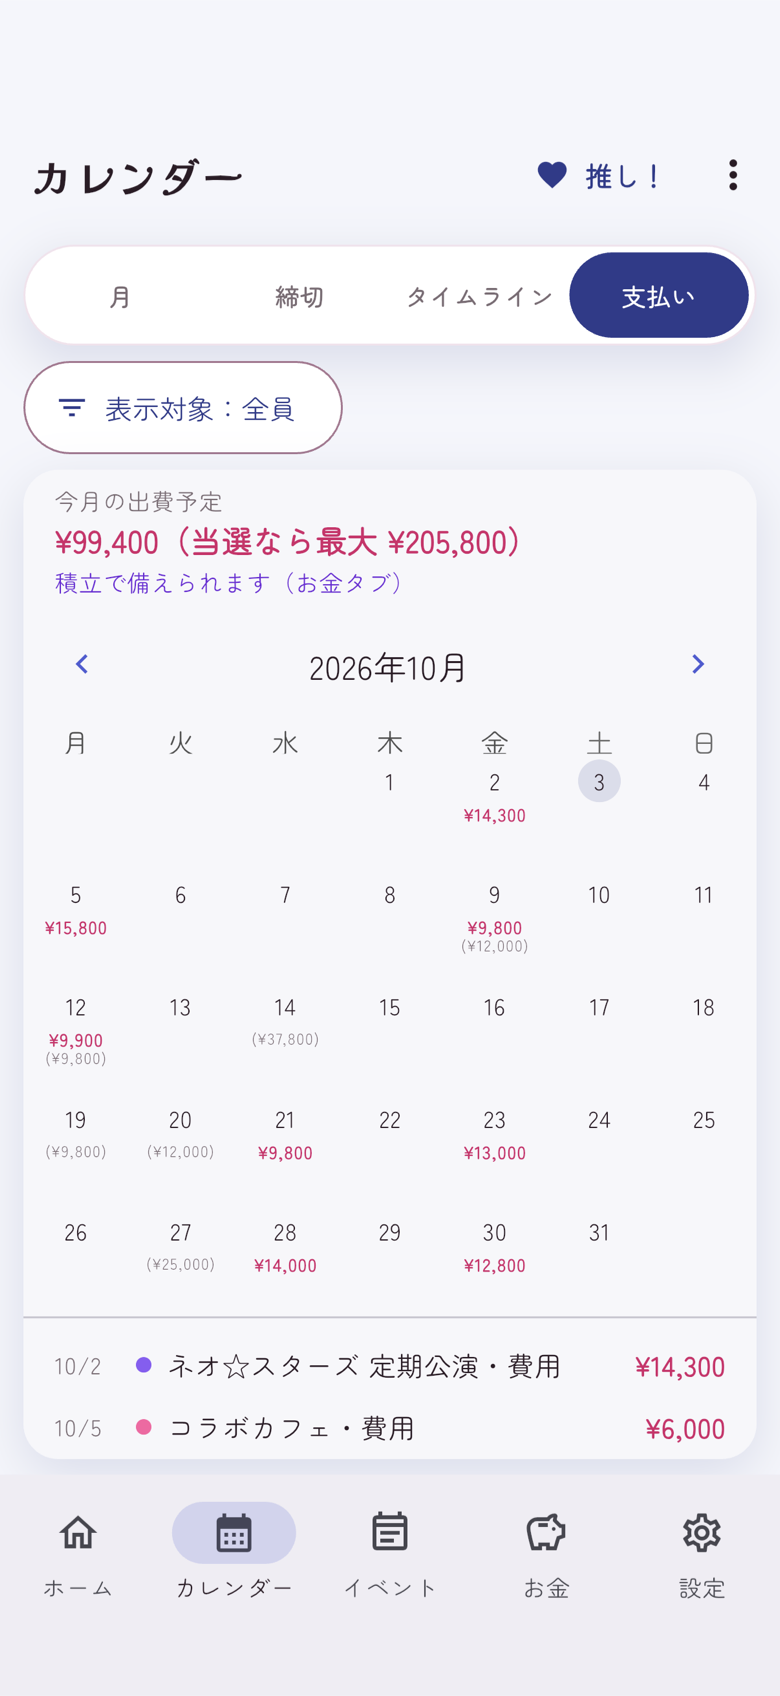
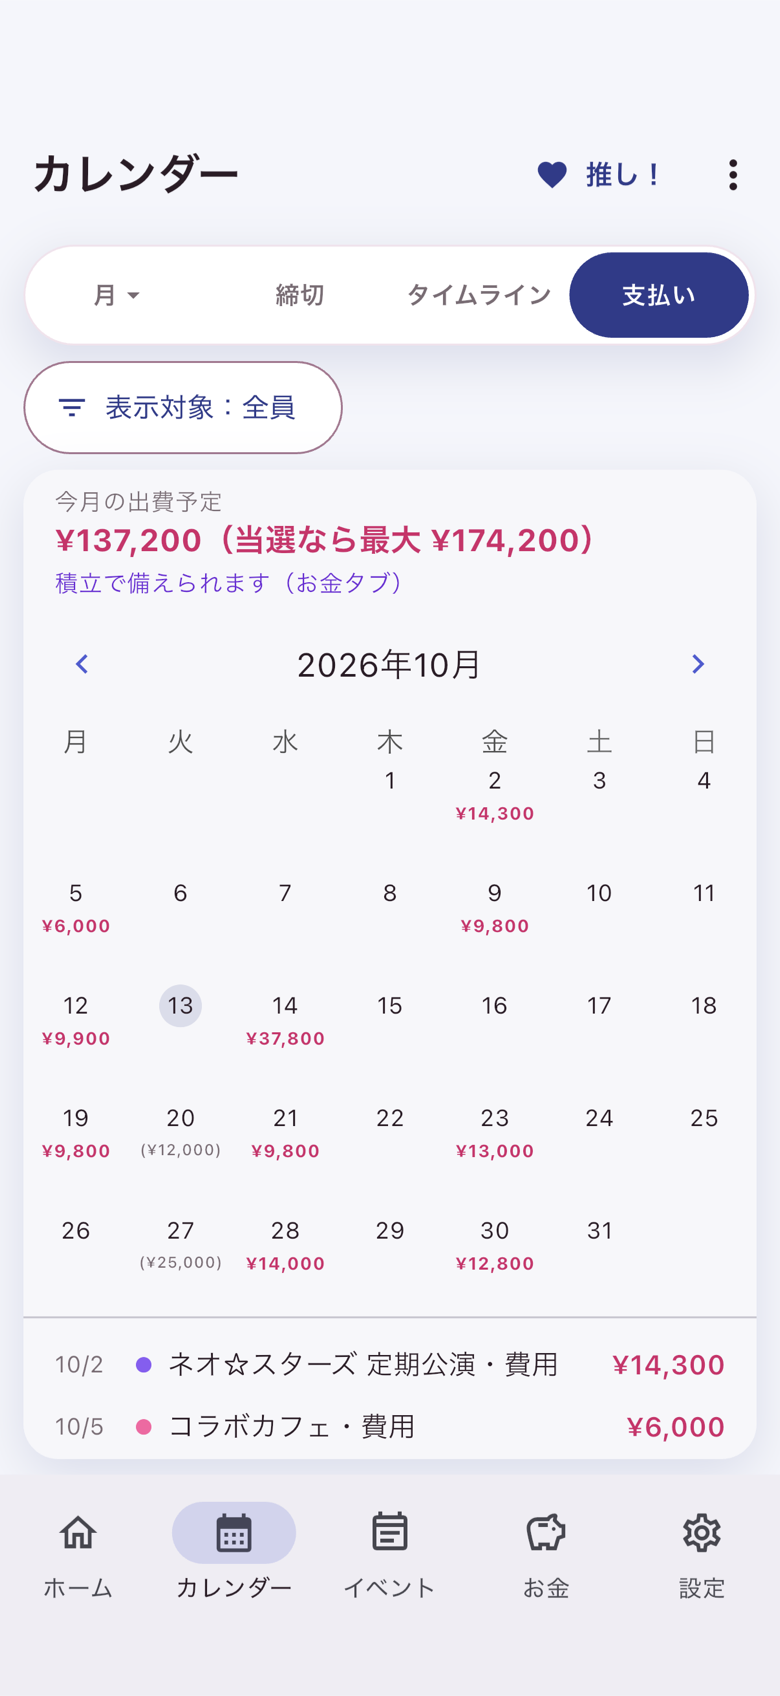
LP: WHAT I DO の 4 カードに実画面を添える（文字だけ→見出し→一言→実画面→箇条書き）
- 各カードに該当画面の実スクショ窓（.job-shot）: 予定=月ビュー／お金=お金の見通し／
  当落=当落（応募・抽選の結果）／立替=お金＞立替（回収待ち 2 件）。
- スマホ=画面を先に見せる順（見出し→一言→実画面→箇条書き）、PC=右に実画面を固定（grid）。
  窓は正方形（aspect-ratio）＋ object-position で見せたい部分だけを切る。
- 素材は tool/capture-lp-shots.sh（iPhone 17 実描画・Tier1）で全 9 枚を再撮影＝
  祝日色・お金 5 タブ・月ピル ▾ など現行 UI に追随。app-settlement.png を新規追加。
- gtm_copy_lint PASS。実画面は「開発中アプリの実際の画面（サンプルデータ）」と明記。

diff --git a/index.html b/index.html
@@ -269,7 +269,30 @@ section{scroll-margin-top:76px}
 .detail-link{display:inline-flex;align-items:center;gap:6px;font-weight:900;font-size:13.5px;color:var(--oshi-pink-deep);
   text-decoration:none;min-height:44px}
 .detail-link:hover{text-decoration:underline}
-@media(min-width:760px){.jobs{grid-template-columns:1fr 1fr}}
+/* 実画面つきカード（2026-10-13）: 文字だけだった4枚に、該当画面の実スクショを添える。
+   スマホ=見出し→一言→実画面→箇条書きの順（画面を先に見せる）。PC=右に実画面を固定。
+   .win は画面の「見せたい部分」だけを窓で切る（object-position は --focus で各カードが指定） */
+.job .job-shot{margin:14px 0 6px;display:flex;flex-direction:column;gap:8px}
+.job .job-shot .win{--focus:top;position:relative;aspect-ratio:1/1;border-radius:18px;overflow:hidden;
+  border:1px solid var(--line);box-shadow:0 10px 26px rgba(214,31,105,.10);background:#f7f6fb}
+.job .job-shot .win img{width:100%;height:100%;object-fit:cover;object-position:var(--focus);display:block}
+.job .job-shot .win::after{content:"";position:absolute;left:0;right:0;bottom:0;height:46px;
+  background:linear-gradient(to bottom,rgba(255,255,255,0),#fff)}
+.job .job-shot figcaption{font-size:11.5px;font-weight:700;color:var(--ink-muted);line-height:1.6}
+.job .job-shot figcaption b{color:var(--oshi-pink-deep)}
+@media(min-width:760px){
+  .jobs{grid-template-columns:1fr 1fr}
+  .job{display:grid;grid-template-columns:1fr 160px;column-gap:18px;
+    grid-template-areas:"jh shot" "one shot" "blt shot" "cite shot" "detail shot";grid-template-rows:auto auto auto auto 1fr}
+  .job .jh{grid-area:jh}
+  .job .one{grid-area:one}
+  .job .blt{grid-area:blt}
+  .job .cite{grid-area:cite}
+  .job .detail{grid-area:detail;align-self:end}
+  .job .job-shot{grid-area:shot;margin:0}
+  .job .job-shot .win{aspect-ratio:auto;height:320px;border-radius:22px}
+}
+}
 
 /* 使い方 3ステップ */
 .flow{display:grid;grid-template-columns:1fr;gap:16px;margin-top:8px}
@@ -537,13 +560,17 @@ footer{background:#fff;border-top:1px solid var(--line)}
       <div class="head">
         <div class="kicker">WHAT I DO</div>
         <h2>あなたの専属マネージャー、できること。</h2>
-        <div class="tag">「日程」と「3つのお金（使う・貯める・守る）」を、4つの仕事でまるごとおまかせ。</div>
+        <div class="tag">「日程」と「3つのお金（使う・貯める・守る）」を、4つの仕事でまるごとおまかせ。それぞれ、実際の画面と一緒に。</div>
       </div>
       <div class="jobs">
 
         <div class="job">
           <div class="jh"><svg class="ic"><use href="#ic-calendar"></use></svg><div class="scn">予定を、見落とさない</div></div>
           <p class="one">ライブ・配信・発売日・当落発表・各種締切を、ひとつのカレンダーに。</p>
+          <figure class="job-shot">
+            <div class="win" style="--focus:center 28%"><img src="assets/screens/app-calendar.png" alt="参戦カレンダー（月ビュー）の実際の画面" loading="lazy"></div>
+            <figcaption><b>📅 月ビュー</b>｜日程被り・締切もこの画面に<br>※開発中アプリの実際の画面（サンプルデータ）</figcaption>
+          </figure>
           <ul class="blt">
             <li>月／締切／タイムライン／支払いの<b>4つの見方</b>で先回り</li>
             <li>掛け持ちの<b>日程被り</b>・当落より先に来る締切をお知らせ</li>
@@ -555,6 +582,10 @@ footer{background:#fff;border-top:1px solid var(--line)}
         <div class="job">
           <div class="jh"><svg class="ic"><use href="#ic-coin"></use></svg><div class="scn">お金を、見通す</div></div>
           <p class="one">今月あといくら使える？数ヶ月先の谷は？——使う・貯める・守るを、ひと目で。</p>
+          <figure class="job-shot">
+            <div class="win" style="--focus:center top"><img src="assets/screens/app-money.png" alt="お金の見通しの実際の画面" loading="lazy"></div>
+            <figcaption><b>💰 お金の見通し</b>｜今月使えるお金が最初に出る<br>※開発中アプリの実際の画面（サンプルデータ）</figcaption>
+          </figure>
           <ul class="blt">
             <li><b>今月使えるお金</b>を、予算から先回りで把握（使う）</li>
             <li>遠征の<b>積立</b>をゴールから逆算（貯める）</li>
@@ -566,6 +597,10 @@ footer{background:#fff;border-top:1px solid var(--line)}
         <div class="job">
           <div class="jh"><svg class="ic"><use href="#ic-penlight"></use></svg><div class="scn">当落の「もしも」に、備える</div></div>
           <p class="one">「全部当たっても払える？」を、申込む前に。</p>
+          <figure class="job-shot">
+            <div class="win" style="--focus:center 18%"><img src="assets/screens/app-lottery.png" alt="当落（応募・抽選の結果）の実際の画面" loading="lazy"></div>
+            <figcaption><b>🎫 当落</b>｜当選／落選を切り替えて試算<br>※開発中アプリの実際の画面（サンプルデータ）</figcaption>
+          </figure>
           <ul class="blt">
             <li>当選／落選を切り替えて<b>自己負担をシミュ</b></li>
             <li>当落より先に来る宿・交通の締切（<b>遠征チキンレース</b>）を先回り</li>
@@ -576,6 +611,10 @@ footer{background:#fff;border-top:1px solid var(--line)}
         <div class="job">
           <div class="jh"><svg class="ic"><use href="#ic-graph"></use></svg><div class="scn">仲間との立替を、整理する</div></div>
           <p class="one">連番の立替も、同行者との精算も、申込の名義も、すっきりひとつに。</p>
+          <figure class="job-shot">
+            <div class="win" style="--focus:center 40%"><img src="assets/screens/app-settlement.png" alt="立替・精算の記録の実際の画面" loading="lazy"></div>
+            <figcaption><b>🤝 立替</b>｜記録と見える化だけ・送金はしません<br>※開発中アプリの実際の画面（サンプルデータ）</figcaption>
+          </figure>
           <ul class="blt">
             <li>立替の記録と<b>精算の見える化</b>（送金はしません・記録のみ）</li>
             <li>入金期限・名義変更の締切を、先回りでそっとお知らせ</li>
